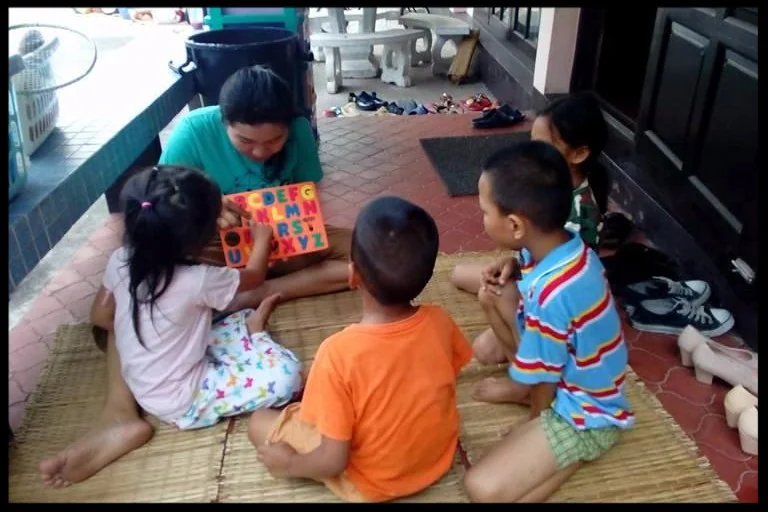
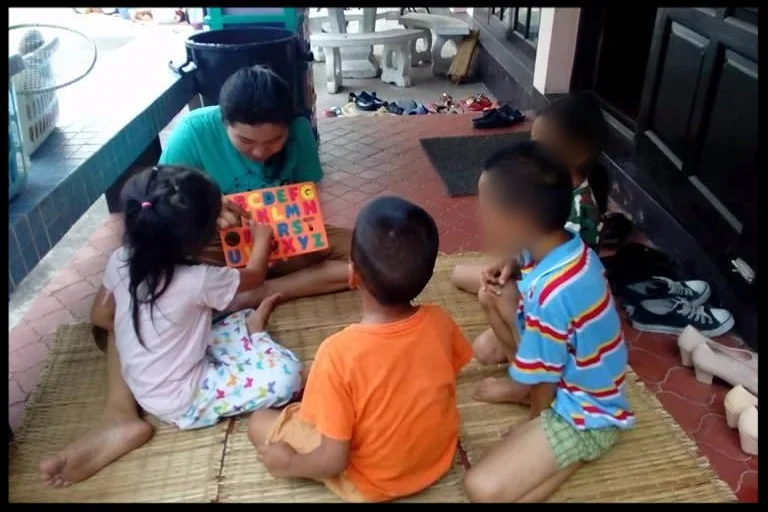
Add Baan Dem Rak page
Teal accent. Built from baandemrak.com plus the local export. Uses the centre's
own current framing of Santitham (migrant families with limited access to
opportunity) rather than the old page's poverty-and-exploitation language.

Signature element is the weekly rhythm: the seven named programmes presented as
a week rather than a feature list. Children's faces in the porch photo blurred;
the Bible study photo needed none.

Changed region(s): [[0.625, 0.3438, 0.6875, 0.5312], [0.6875, 0.2188, 0.7812, 0.3125]]

diff --git a/baan-dem-rak.html b/baan-dem-rak.html
@@ -1,0 +1,285 @@
+<!DOCTYPE html>
+<html lang="en">
+<head>
+<meta charset="UTF-8">
+<meta name="viewport" content="width=device-width, initial-scale=1.0">
+<title>Baan Dem Rak. A community centre for migrant families in Chiang Mai</title>
+<meta name="description" content="Baan Dem Rak, House Full of Love, is a YWAM Chiang Mai community centre in Santitham. English classes, homework help, sport, digital skills and a Sunday programme for migrant families and their children.">
+<link rel="canonical" href="https://ywamchiangmai.org/baan-dem-rak.html">
+
+<meta property="og:type" content="website">
+<meta property="og:title" content="Baan Dem Rak. House Full of Love.">
+<meta property="og:description" content="A community centre in Santitham, Chiang Mai, broadening what is possible for migrant families and their children.">
+<meta property="og:url" content="https://ywamchiangmai.org/baan-dem-rak.html">
+<meta property="og:image" content="https://ywamchiangmai.org/images/ywamchiangmai-ywam-chiangmai-community-center-pim-teaching-kids.webp">
+<meta property="og:site_name" content="YWAM Chiang Mai">
+
+<meta name="twitter:card" content="summary_large_image">
+<meta name="twitter:title" content="Baan Dem Rak. House Full of Love.">
+<meta name="twitter:description" content="A community centre in Santitham, Chiang Mai, broadening what is possible for migrant families and their children.">
+<meta name="twitter:image" content="https://ywamchiangmai.org/images/ywamchiangmai-ywam-chiangmai-community-center-pim-teaching-kids.webp">
+
+<link rel="icon" href="images/favicon.svg" type="image/svg+xml">
+<link rel="icon" href="images/favicon.ico" sizes="32x32">
+<link rel="apple-touch-icon" href="images/apple-touch-icon.png">
+<meta name="theme-color" content="#0d1220">
+<link rel="preload" href="fonts/Fraunces-Variable.woff2" as="font" type="font/woff2" crossorigin>
+<link rel="preload" href="fonts/Outfit-Variable.woff2" as="font" type="font/woff2" crossorigin>
+
+<link rel="stylesheet" href="styles/main.css">
+
+<script type="application/ld+json">
+{
+  "@context": "https://schema.org",
+  "@type": "CreativeWork",
+  "name": "Baan Dem Rak",
+  "url": "https://ywamchiangmai.org/baan-dem-rak.html",
+  "description": "A YWAM Chiang Mai community centre in Santitham serving migrant families through education, employment, spiritual growth and community building.",
+  "isPartOf": {
+    "@type": "Organization",
+    "@id": "https://ywamchiangmai.org/#org"
+  },
+  "alternateName": "House Full of Love"
+}
+</script>
+</head>
+<body data-subpage style="--subpage-accent: var(--teal)">
+
+<a class="skip-link" href="#main">Skip to content</a>
+
+<header class="nav" id="nav">
+  <a class="nav-logo" href="./">
+    <span class="nav-logo-mark" aria-hidden="true"></span>
+    YWAM <em>Chiang Mai</em>
+  </a>
+  <nav class="nav-links" aria-label="Primary">
+    <a href="./#programs">Programs</a>
+    <a href="./#mission">About</a>
+    <a href="./#life">Life Here</a>
+    <a href="join-staff.html">Join Staff</a>
+    <a href="donate.html">Donate</a>
+    <a href="#contact">Contact</a>
+  </nav>
+  <a class="nav-apply" href="#get-involved">Apply</a>
+  <button class="nav-burger" id="navBurger" aria-label="Open menu" aria-expanded="false" aria-controls="mobileMenu">
+    <span></span><span></span>
+  </button>
+</header>
+
+<div class="mobile-menu" id="mobileMenu" hidden>
+  <a href="./#programs">Programs</a>
+  <a href="./#mission">About</a>
+  <a href="./#life">Life Here</a>
+  <a href="join-staff.html">Join Staff</a>
+  <a href="donate.html">Donate</a>
+  <a href="#contact">Contact</a>
+  <a class="nav-apply" href="#get-involved">Apply</a>
+</div>
+
+<main id="main">
+
+<!-- ===================== 1. HERO ===================== -->
+<section class="hero hero-subpage" id="top">
+  <div class="hero-inner">
+    <p class="eyebrow hero-eyebrow">A ministry of YWAM Chiang Mai</p>
+    <h1 class="hero-heading">Baan Dem Rak</h1>
+    <p class="hero-sub">House Full of Love. A community centre in Santitham, Chiang Mai, working with migrant families whose children have the least access to opportunity in this city.</p>
+    <div class="hero-ctas">
+      <a class="btn btn-solid" href="#get-involved">Get involved</a>
+      <a class="btn btn-ghost" href="#week">See a week here</a>
+    </div>
+  </div>
+  <figure class="film-still hero-subpage-image">
+    <span class="film-still-bar film-still-bar-top" aria-hidden="true"></span>
+    <img src="images/ywamchiangmai-ywam-chiangmai-community-center-pim-teaching-kids.webp" alt="A woman sits cross legged on a bamboo mat on a porch holding an alphabet board while four small children gather round her" width="768" height="512" loading="eager">
+    <span class="film-still-bar film-still-bar-bottom">
+      <span class="film-caption-label">A safe place to experience the love of Jesus</span>
+    </span>
+  </figure>
+</section>
+
+<!-- ===================== 2. THE NEED ===================== -->
+<section class="section-block" id="need">
+  <div class="section-head reveal">
+    <p class="eyebrow">The need</p>
+    <h2>Santitham, and the families the city overlooks.</h2>
+    <p class="lede">Baan Dem Rak serves the neighbourhood of Santitham in Chiang Mai. Many of the migrant families living here have limited access to opportunity, and their children are exposed to risks that better connected families can protect against.</p>
+    <p class="lede">Poverty is rarely a shortage of ability. It is a shortage of doors. A child who cannot get help with homework falls behind, and a teenager who falls behind stops believing there is a version of their life worth planning for. That is the gap this centre exists to close.</p>
+  </div>
+</section>
+
+<!-- ===================== 3. THE SOLUTION ===================== -->
+<section class="section-block" id="solution">
+  <div class="section-head reveal">
+    <p class="eyebrow">The solution</p>
+    <h2>Broaden what is possible, then help people reach it.</h2>
+    <p class="lede">Baan Dem Rak exists to broaden the opportunities for the people in its neighbourhood, to help them find God's purpose for their lives, and then to help them source the skills and education needed to fulfil it. The centre works across four areas: education, employment, spiritual growth and community building.</p>
+    <p class="lede">The employment strand matters more than it sounds. Harnessing business to create real jobs is what lets a young person break the poverty cycle rather than simply be supported through it, and it builds mentoring relationships that outlast any single programme.</p>
+  </div>
+  <div class="gallery-grid reveal">
+    <figure>
+      <img src="images/ywamchiangmai-ywam-chiangmai-community-center-kids-studying-bible.webp" alt="Four teenagers sit on a polished wooden floor reading open Bibles, a whiteboard covered in Thai handwriting behind them" width="960" height="640" loading="lazy">
+    </figure>
+    <figure>
+      <img src="images/ywamchiangmai-ywam-chiangmai-community-photo-1.webp" alt="Young people gathered together at the community centre" width="1067" height="800" loading="lazy">
+    </figure>
+  </div>
+</section>
+
+<!-- ===================== 4. A WEEK HERE ===================== -->
+<section class="section-block" id="week" data-subpage-raise>
+  <div class="section-head reveal">
+    <p class="eyebrow">A week here</p>
+    <h2>Seven things that happen, most weeks.</h2>
+    <p class="lede">The centre does not run campaigns. It runs a rhythm, and the rhythm is the point: the same faces, in the same room, at the same time each week, for long enough that trust becomes possible.</p>
+  </div>
+  <div class="role-list reveal">
+    <article class="role-card">
+      <h3>English Program</h3>
+      <p>A weekly English class for children from about five to twelve, plus a separate class for teens and adults. Interactive and deliberately fun, because a child who dreads the room does not come back.</p>
+    </article>
+    <article class="role-card">
+      <h3>Homework Help</h3>
+      <p>Children bring the school work they are stuck on and get help from staff. Guitar, worship songs and a Bible study run alongside for anyone interested.</p>
+    </article>
+    <article class="role-card">
+      <h3>Soccer Coaching</h3>
+      <p>Gathering the kids and teens who want to improve, and using the time to build relationships that carry over into everything else.</p>
+    </article>
+    <article class="role-card">
+      <h3>Free Time</h3>
+      <p>A weekly slot with nothing scheduled. Sport, art, or just somewhere to be. Unstructured time in a safe place is its own kind of provision.</p>
+    </article>
+    <article class="role-card">
+      <h3>Teen Youth Group</h3>
+      <p>Weekly, for teenagers who want to go further: studying the Word together and worshipping.</p>
+    </article>
+    <article class="role-card">
+      <h3>Digital Skills</h3>
+      <p>Basic and advanced digital classes for children and youth, run in partnership with Banah Digital. The skills here translate directly into work.</p>
+    </article>
+    <article class="role-card">
+      <h3>Sunday Bible Program</h3>
+      <p>The whole community is invited. A story from the Bible, then age groups to talk it through, then dinner together. The meal is not an add-on.</p>
+    </article>
+  </div>
+</section>
+
+<!-- ===================== 5. WHAT WE ARE AIMING FOR ===================== -->
+<section class="section-block" id="aims">
+  <div class="section-head reveal">
+    <p class="eyebrow">What we are aiming for</p>
+    <h2>Aware, restored, empowered and free.</h2>
+    <p class="lede">The centre's stated vision is to see communities fulfilling God's purpose for their lives: aware, restored, empowered and free. Its mission is simpler still, to be a safe place for everyone to experience the love of Jesus.</p>
+    <p class="lede">What that looks like on the ground is a strong, positive identity in each person the centre serves. Not rescue, and not charity in the transactional sense, but the expectation that these are people with a purpose who have been short of the means to pursue it. The centre anticipates community transformation and a disciple making movement, one family at a time.</p>
+  </div>
+</section>
+
+<!-- ===================== 6. WHO RUNS IT ===================== -->
+<section class="section-block" id="team" data-subpage-raise>
+  <div class="section-head reveal">
+    <p class="eyebrow">Who runs it</p>
+    <h2>A mixed Thai and international team.</h2>
+    <p class="lede">The team is international and interdenominational, a group of Thais and foreigners committed to knowing God and making Him known through their lives and their service. Baan Dem Rak is a registered YWAM Chiang Mai project under the Ignite Dreams Foundation, Thailand.</p>
+    <p class="lede">Commitments are deliberately long. Thai staff join for a minimum of two years and non Thai staff for a minimum of three, unless they already speak Thai, so there is time to learn the language and the culture before being useful. Volunteers can give fewer hours per week but are asked for at least a year. In a neighbourhood where adults have often come and gone, staying is most of the work.</p>
+  </div>
+</section>
+
+<!-- ===================== 7. GET INVOLVED ===================== -->
+<section class="section-block" id="get-involved">
+  <div class="section-head reveal">
+    <p class="eyebrow">Get involved</p>
+    <h2>Skills the centre is asking for</h2>
+    <p class="lede">These are the roles Baan Dem Rak names itself. If your skill is not on the list and you think it fits, they would rather hear the idea than not.</p>
+  </div>
+  <div class="role-list reveal">
+    <article class="role-card">
+      <h3>Leadership and community development</h3>
+      <p>People with real experience in developing a community, not just running activities within one.</p>
+    </article>
+    <article class="role-card">
+      <h3>English teachers</h3>
+      <p>With a heart to serve both the children and the adults who come. Two very different classrooms, both needed.</p>
+    </article>
+    <article class="role-card">
+      <h3>Sports coaches</h3>
+      <p>Able to work with older children and teens, and to develop the soccer programme or whatever else the community shows an appetite for.</p>
+    </article>
+    <article class="role-card">
+      <h3>Church planters</h3>
+      <p>The centre wants to see the neighbourhood filled with home churches, and is looking for people willing to take the initiative and befriend people as part of their working day.</p>
+    </article>
+    <article class="role-card">
+      <h3>Visionary generalists</h3>
+      <p>Friendly people who love Jesus and want to help develop the centre itself further. Less a job description than an invitation.</p>
+    </article>
+  </div>
+</section>
+
+<!-- ===================== 8. GET SOCIAL ===================== -->
+<section class="section-block" id="social" data-subpage-raise>
+  <div class="section-head reveal">
+    <p class="eyebrow">Follow along</p>
+    <h2>Get social</h2>
+  </div>
+  <p class="lede">
+    Baan Dem Rak runs its own site and newsletter at
+    <a href="https://baandemrak.com" target="_blank" rel="noreferrer noopener">baandemrak.com</a>,
+    and posts regularly on
+    <a href="https://baandemrak.com" target="_blank" rel="noreferrer noopener">Facebook</a>.
+    Its digital skills partner is
+    <a href="https://banah.co" target="_blank" rel="noreferrer noopener">Banah Digital</a>.
+  </p>
+</section>
+
+<!-- ===================== 9. CONTACT ===================== -->
+<section class="section-block" id="contact">
+  <div class="section-head reveal">
+    <p class="eyebrow">Contact</p>
+    <h2>Send them a message</h2>
+    <p class="lede">Tell them your ideas or ask your questions. <a href="#" data-user="hello" data-domain="baandemrak.com">Email Baan Dem Rak</a>, or call +66 65 608 7913.</p>
+    <p class="lede">Santitham, Chiang Mai. A registered YWAM Chiang Mai project under the Ignite Dreams Foundation, Thailand.</p>
+  </div>
+</section>
+
+</main>
+
+<!-- ===================== FOOTER ===================== -->
+<footer class="footer">
+  <div class="footer-grid">
+    <div>
+      <p class="footer-logo"><span class="nav-logo-mark" aria-hidden="true"></span>YWAM <em>Chiang Mai</em></p>
+      <p class="footer-line">Part of Youth With A Mission, a global movement in 180+ nations since 1960.</p>
+    </div>
+    <div>
+      <h3>Visit</h3>
+      <p class="footer-line">P.O. Box 113 CMU<br>Chiang Mai 50202, Thailand</p>
+      <p class="footer-line">Our ministries are spread across Chiang Mai province,
+      so post reaches us fastest at the box above.</p>
+    </div>
+    <div>
+      <h3>Contact</h3>
+      <p class="footer-line">
+        <a href="#" data-user="hello" data-domain="ywamchiangmai.org">Email</a><br>
+        <a href="https://facebook.com/ywamchiangmai" target="_blank" rel="noreferrer noopener">Facebook</a> &middot; <a href="https://twitter.com/ywamchiangmai" target="_blank" rel="noreferrer noopener">Twitter</a>
+      </p>
+    </div>
+    <div>
+      <h3>Programs</h3>
+      <p class="footer-line">
+        <a href="./#programs">DTS</a><br>
+        <a href="./#programs">Create</a><br>
+        <a href="project-video.html">Project Video</a><br>
+        <a href="./#programs">SOFM</a>
+      </p>
+    </div>
+  </div>
+  <p class="footer-legal">
+    <span>&copy; 2026 YWAM Chiang Mai. All rights reserved.</span>
+    <span class="footer-legal-links"><a href="privacy-policy.html">Privacy Policy</a><a href="terms.html">Terms of Service</a></span>
+  </p>
+</footer>
+
+<script src="scripts/main.js" defer></script>
+</body>
+</html>
